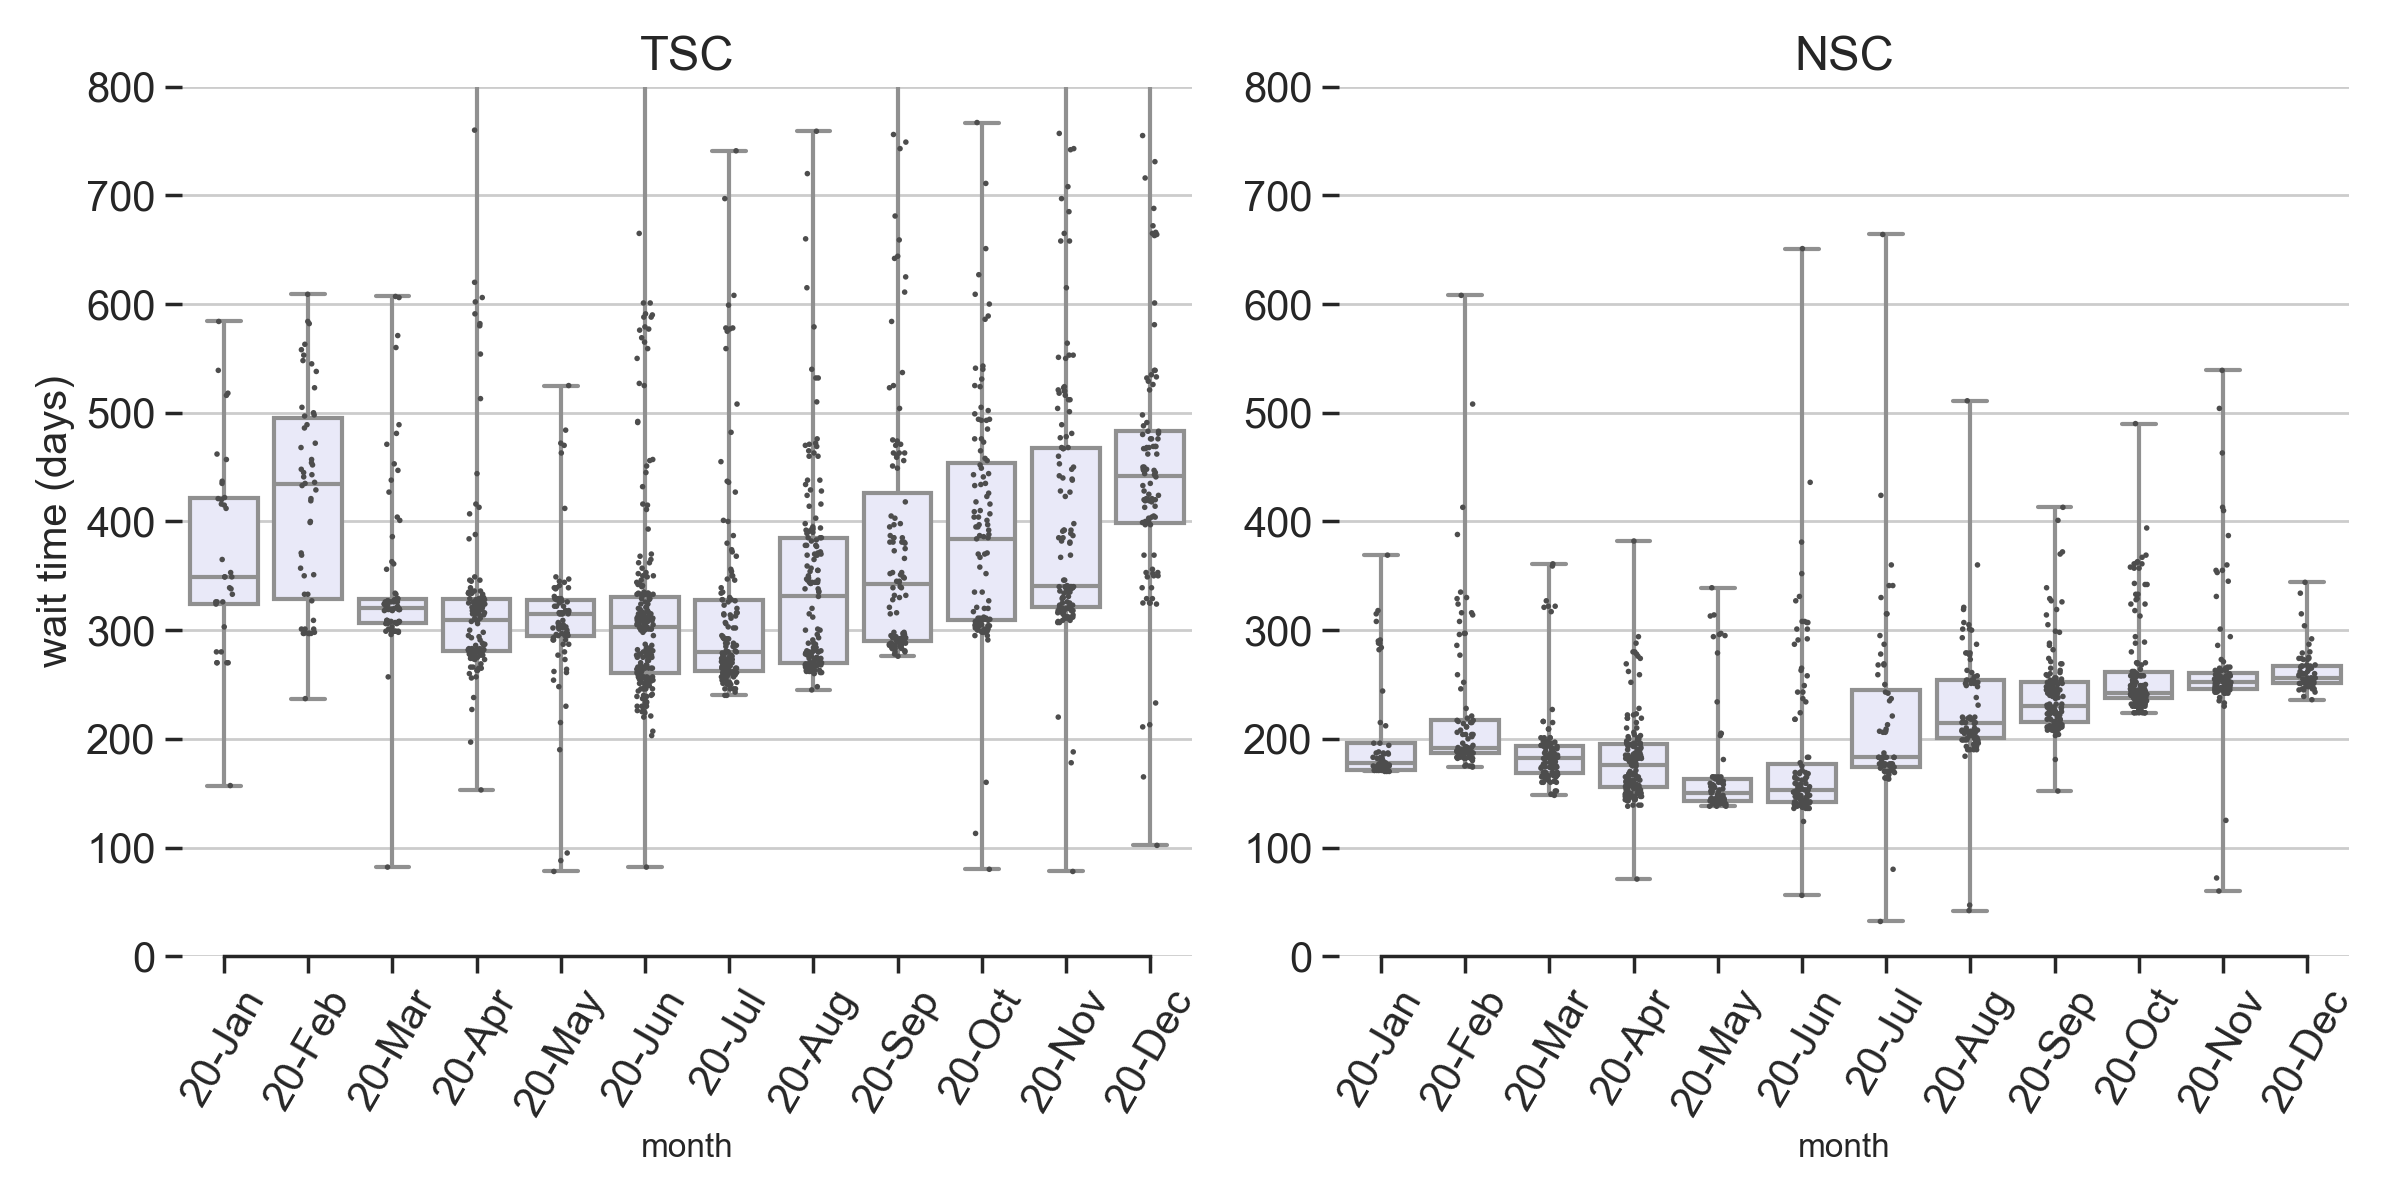
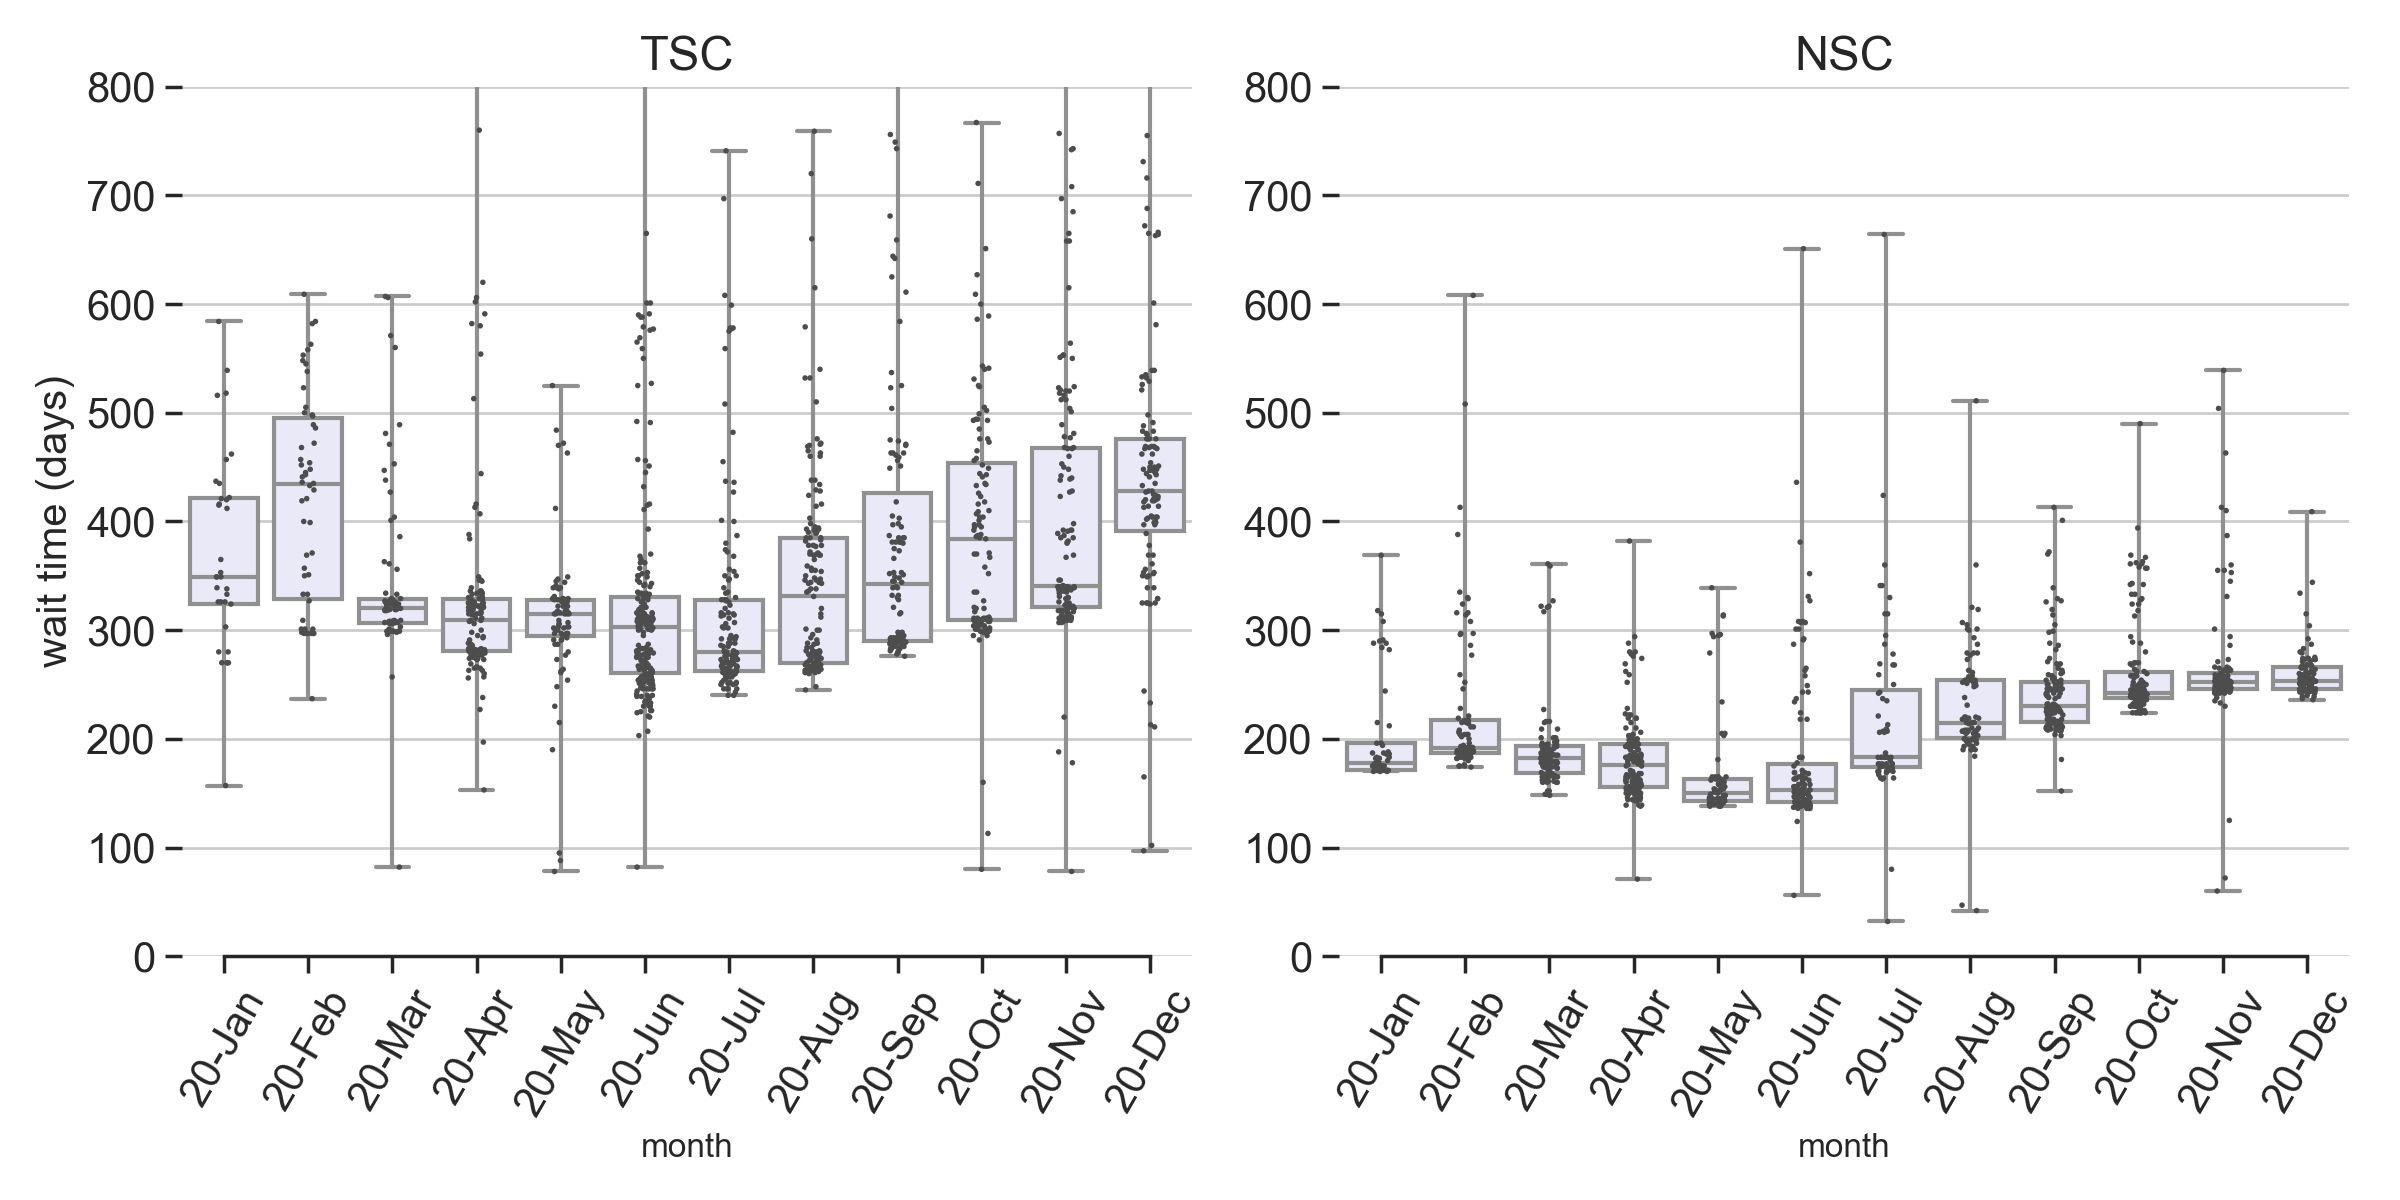
update Jan-8

diff --git a/README.md b/README.md
@@ -1,4 +1,4 @@
-## National Interest Waiver Wait Time, updated Dec-30-2020 
+## National Interest Waiver Wait Time, updated Jan-08-2021 
 USCIS Employment-based-2 NIW I-140 wait time before approval (data source: [Victoria Chen](https://www.wegreened.com/eb1_niw_approvals)). 
  
 1. Distribution plot of wait time before approval by month, divided into Texas center and Nebraska center 
